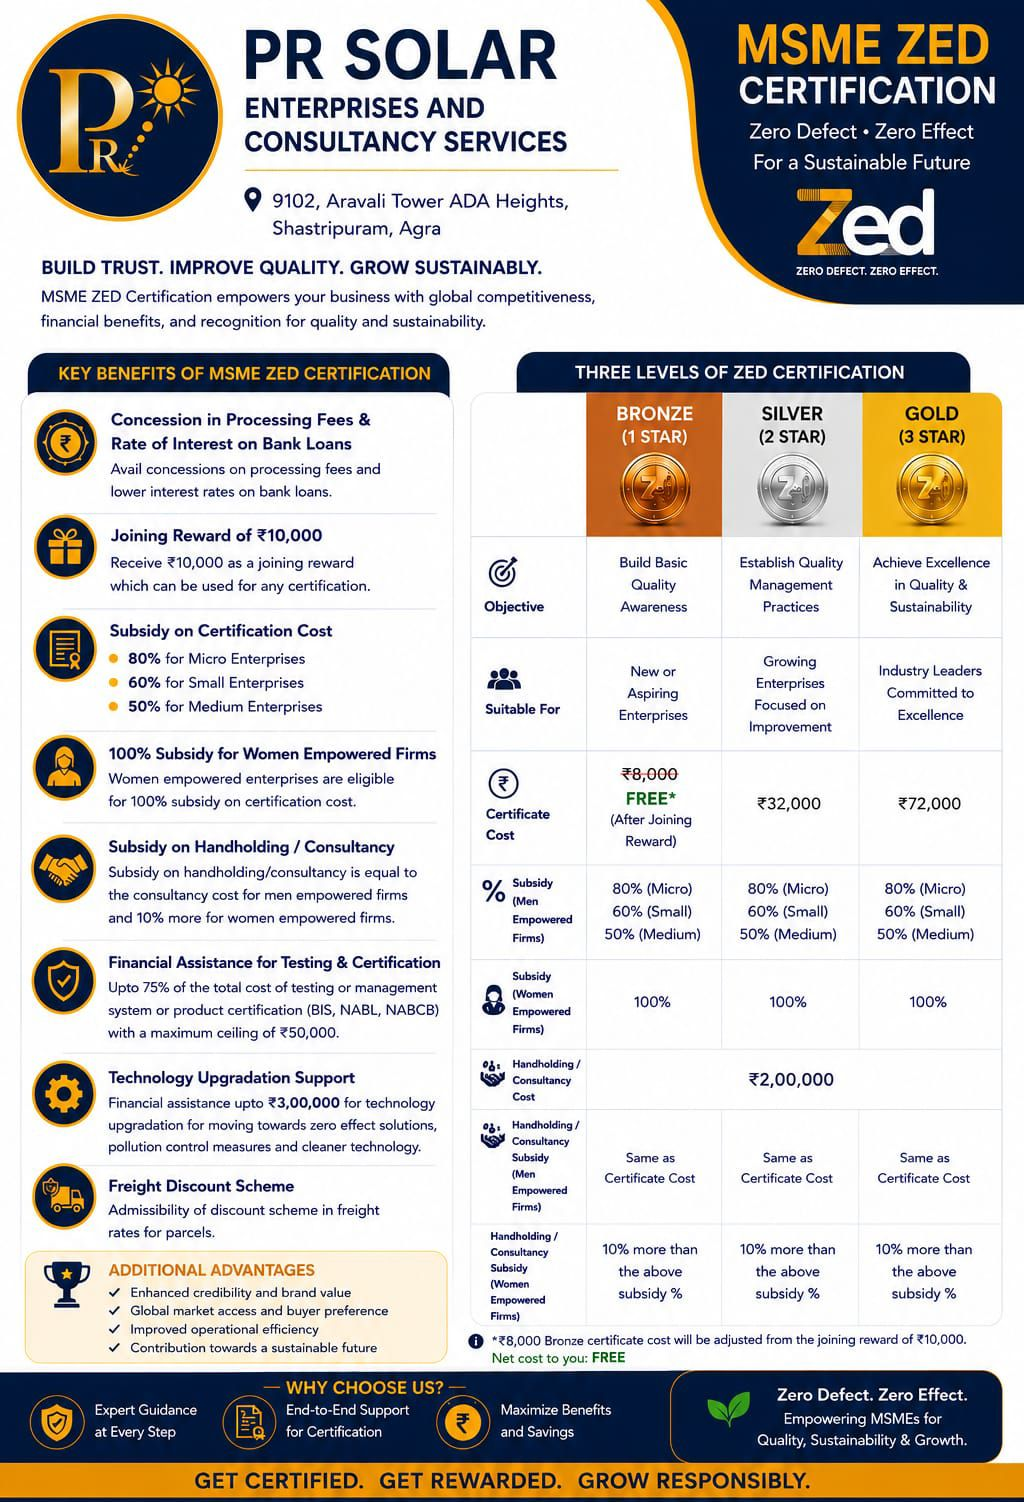
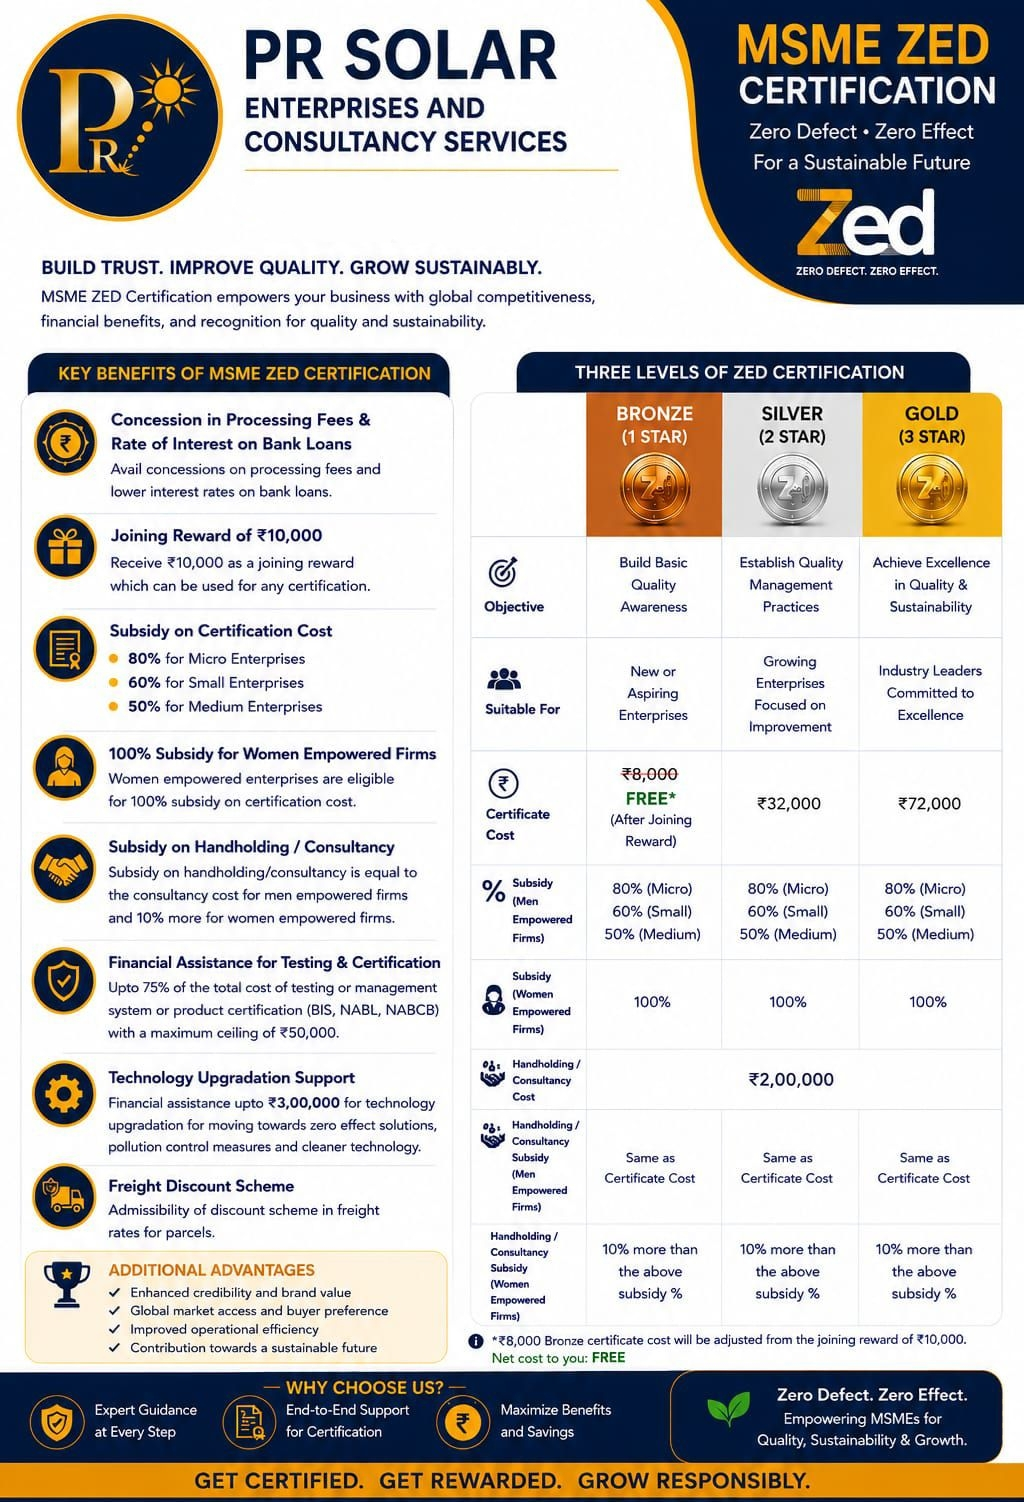
Make contact info clickable, update ZED image, add new phone number

Changed region(s): [[0.2188, 0.1225, 0.5625, 0.1531]]

diff --git a/src/pages/Contact.js b/src/pages/Contact.js
@@ -30,7 +30,7 @@ const Contact = () => {
                 </div>
                 <div>
                   <h3 style={{ fontSize: '1.2rem', marginBottom: '0.2rem' }}>Corporate Office</h3>
-                  <p style={{ color: 'var(--color-text)' }}>1101, Kanchanjunga Tower, Shastripuram Heights,<br />Agra, Uttar Pradesh, 282007</p>
+                  <p style={{ color: 'var(--color-text)' }}><a href="https://maps.google.com/?q=1101,+Kanchanjunga+Tower,+Shastripuram+Heights,+Agra-282007" target="_blank" rel="noopener noreferrer" style={{ color: 'inherit', textDecoration: 'none' }}>1101, Kanchanjunga Tower, Shastripuram Heights,<br />Agra, Uttar Pradesh, 282007</a></p>
                 </div>
               </div>
 
@@ -40,8 +40,9 @@ const Contact = () => {
                 </div>
                 <div>
                   <h3 style={{ fontSize: '1.2rem', marginBottom: '0.2rem' }}>Phone Numbers</h3>
-                  <p style={{ color: 'var(--color-text)' }}>+91 80775 85201</p>
-                  <p style={{ color: 'var(--color-text)' }}>+91 8218416906</p>
+                  <p style={{ color: 'var(--color-text)' }}><a href="tel:+918077585201" style={{ color: 'inherit', textDecoration: 'none' }}>+91 80775 85201</a></p>
+                  <p style={{ color: 'var(--color-text)' }}><a href="tel:+918218416906" style={{ color: 'inherit', textDecoration: 'none' }}>+91 8218416906</a></p>
+                  <p style={{ color: 'var(--color-text)' }}><a href="tel:+919917223340" style={{ color: 'inherit', textDecoration: 'none' }}>+91 9917223340</a></p>
                 </div>
               </div>
 
@@ -51,9 +52,9 @@ const Contact = () => {
                 </div>
                 <div>
                   <h3 style={{ fontSize: '1.2rem', marginBottom: '0.2rem' }}>Email Addresses</h3>
-                  <p style={{ color: 'var(--color-text)' }}>sales@prsecs.com</p>
-                  <p style={{ color: 'var(--color-text)' }}>yogendrabhasker@prsecs.com</p>
-                  <p style={{ color: 'var(--color-text)' }}>satishnigam@prsecs.com</p>
+                  <p style={{ color: 'var(--color-text)' }}><a href="mailto:sales@prsecs.com" style={{ color: 'inherit', textDecoration: 'none' }}>sales@prsecs.com</a></p>
+                  <p style={{ color: 'var(--color-text)' }}><a href="mailto:yogendrabhasker@prsecs.com" style={{ color: 'inherit', textDecoration: 'none' }}>yogendrabhasker@prsecs.com</a></p>
+                  <p style={{ color: 'var(--color-text)' }}><a href="mailto:satishnigam@prsecs.com" style={{ color: 'inherit', textDecoration: 'none' }}>satishnigam@prsecs.com</a></p>
                 </div>
               </div>
 

diff --git a/src/components/Footer.js b/src/components/Footer.js
@@ -46,15 +46,15 @@ const Footer = () => {
           <ul style={{ display: 'flex', flexDirection: 'column', gap: '1rem' }}>
             <li style={{ display: 'flex', alignItems: 'flex-start', gap: '0.8rem', color: 'rgba(255, 255, 255, 0.7)', fontSize: '0.9rem' }}>
               <MapPin size={18} color="var(--color-gold)" style={{ flexShrink: 0, marginTop: '3px' }} />
-              <span>1101, Kanchanjunga Tower, Shastripuram Heights, Agra-282007</span>
+              <a href="https://maps.google.com/?q=1101,+Kanchanjunga+Tower,+Shastripuram+Heights,+Agra-282007" target="_blank" rel="noopener noreferrer" style={{ color: 'inherit', textDecoration: 'none' }}>1101, Kanchanjunga Tower, Shastripuram Heights, Agra-282007</a>
             </li>
             <li style={{ display: 'flex', alignItems: 'flex-start', gap: '0.8rem', color: 'rgba(255, 255, 255, 0.7)', fontSize: '0.9rem' }}>
               <Phone size={18} color="var(--color-gold)" style={{ flexShrink: 0, marginTop: '3px' }} />
-              <span>+91 80775 85201</span>
+              <a href="tel:+918077585201" style={{ color: 'inherit', textDecoration: 'none' }}>+91 80775 85201</a>
             </li>
             <li style={{ display: 'flex', alignItems: 'flex-start', gap: '0.8rem', color: 'rgba(255, 255, 255, 0.7)', fontSize: '0.9rem' }}>
               <Mail size={18} color="var(--color-gold)" style={{ flexShrink: 0, marginTop: '3px' }} />
-              <span>sales@prsecs.com</span>
+              <a href="mailto:sales@prsecs.com" style={{ color: 'inherit', textDecoration: 'none' }}>sales@prsecs.com</a>
             </li>
           </ul>
         </div>
